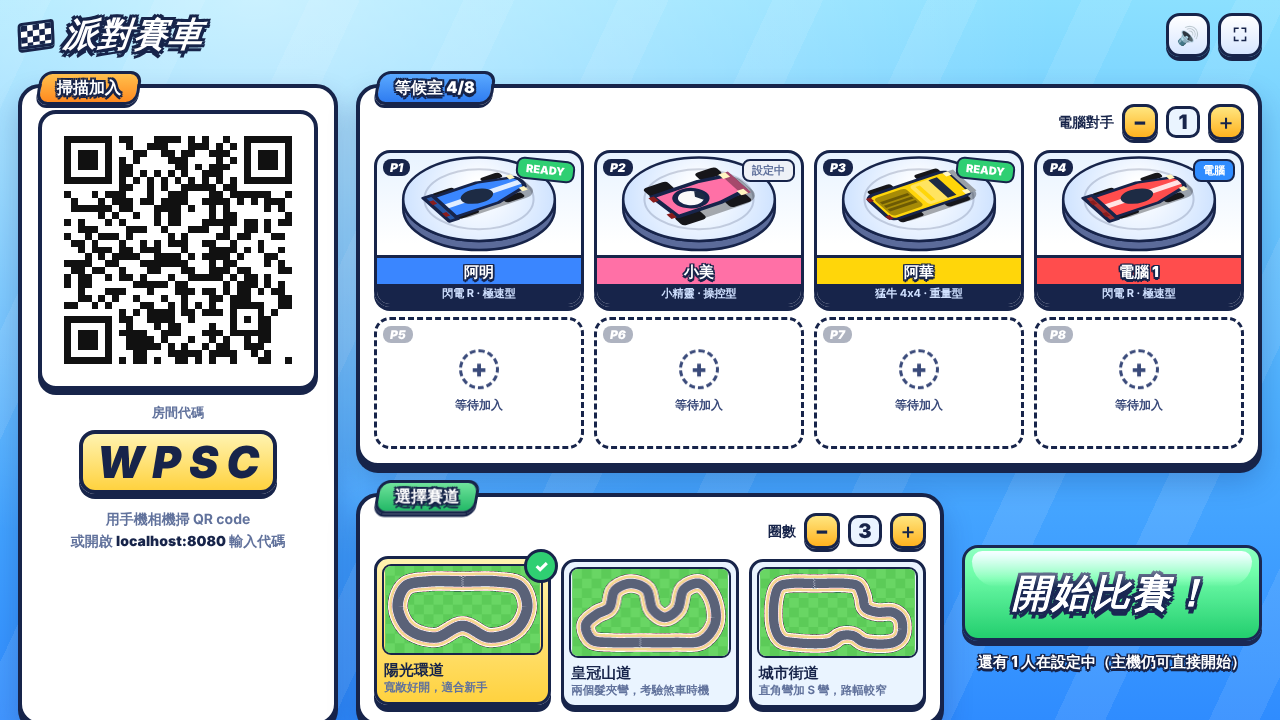
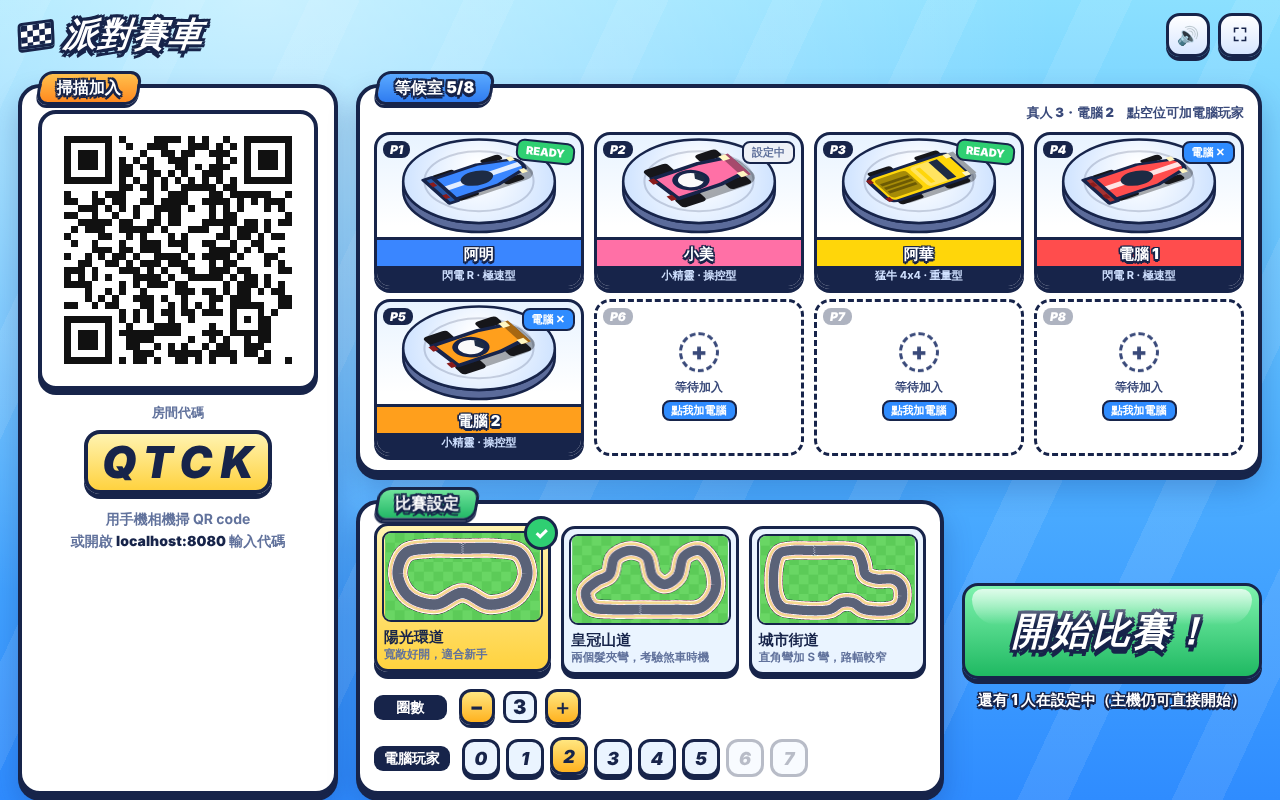
派對賽車：新增電腦玩家數量設定
- 等候室下方改為「比賽設定」面板：賽道、圈數、電腦玩家（0–7 一鍵選擇）
- 點等候室空位可加一台電腦，點「電腦 ✕」可移除
- 設定的是想要的數量：滿員時有人加入，電腦自動讓位；有人離開再補回
- 電腦玩家數、圈數、賽道記在主機裝置上，下次開房沿用
- 窄螢幕上標章不再蓋住 P1–P8 編號
- 端對端測試加上電腦玩家設定的檢查

Claude-Session: https://claude.ai/code/session_014m7PvBxDtCHW1QYCXCytsU

diff --git a/party-racer/js/host.js b/party-racer/js/host.js
@@ -13,14 +13,20 @@ const STEP = 1 / 60;
 const HEARTBEAT_TIMEOUT = 7000;   // 這麼久沒收到手機訊息就當斷線
 const LOBBY_KEEP = 60000;         // 大廳裡斷線的玩家保留多久（讓他重連回來）
 
+// 主機上次的設定（電腦玩家數、圈數、賽道）存在這台裝置上，下次開房直接沿用
+const saved = (() => {
+  try { return JSON.parse(localStorage.getItem('pr-host') || '{}'); } catch (e) { return {}; }
+})();
+
 const S = {
   code: null,
   phase: 'boot',                  // boot | lobby | race | results
   players: new Map(),             // 真人玩家 id → player
   bots: [],
-  botCount: 0,
-  trackId: TRACKS[0].id,
-  laps: 3,
+  botWanted: Number.isInteger(saved.bots) ? Math.max(0, Math.min(MAX_PLAYERS, saved.bots)) : 0,  // 主機想要幾台電腦
+  botCount: 0,                    // 實際幾台（真人太多時會自動讓位）
+  trackId: TRACKS.some((t) => t.id === saved.track) ? saved.track : TRACKS[0].id,
+  laps: Number.isInteger(saved.laps) ? Math.max(1, Math.min(9, saved.laps)) : 3,
   race: null,
   track: null,
   racers: [],
@@ -186,9 +192,21 @@ function sendTo(id, msg) {
 
 // ── 電腦對手 ─────────────────────────────────────────
 
+function saveSettings() {
+  try { localStorage.setItem('pr-host', JSON.stringify({ bots: S.botWanted, laps: S.laps, track: S.trackId })); } catch (e) { /* ignore */ }
+}
+
+// 設定想要的電腦玩家數（會被剩餘空位限制）
+function setBots(n) {
+  S.botWanted = Math.max(0, Math.min(MAX_PLAYERS - S.players.size, n));
+  saveSettings();
+  refreshLobby();
+}
+
 function rebuildBots() {
+  // 真人優先：空位不夠時電腦先讓位，有人離開再補回來
   const max = MAX_PLAYERS - S.players.size;
-  S.botCount = Math.max(0, Math.min(S.botCount, max));
+  S.botCount = Math.max(0, Math.min(S.botWanted, max));
   const used = new Set([...S.players.values()].map((p) => p.color));
   S.bots = [];
   for (let k = 0; k < S.botCount; k++) {
@@ -227,17 +245,33 @@ function setupLobby() {
     b.className = 'track-card';
     b.dataset.id = t.id;
     b.innerHTML = `<canvas></canvas><div class="track-name">${esc(t.name)}</div><div class="track-desc">${esc(t.desc)}</div>`;
-    b.onclick = () => { S.trackId = t.id; refreshLobby(); };
+    b.onclick = () => { S.trackId = t.id; saveSettings(); refreshLobby(); };
     list.appendChild(b);
   }
   requestAnimationFrame(() => {
     for (const b of list.children) drawTrackThumb(b.querySelector('canvas'), getTrack(b.dataset.id));
   });
 
-  $('lap-minus').onclick = () => { S.laps = Math.max(1, S.laps - 1); refreshLobby(); };
-  $('lap-plus').onclick = () => { S.laps = Math.min(9, S.laps + 1); refreshLobby(); };
-  $('bot-minus').onclick = () => { S.botCount = Math.max(0, S.botCount - 1); refreshLobby(); };
-  $('bot-plus').onclick = () => { S.botCount += 1; refreshLobby(); };
+  $('lap-minus').onclick = () => { S.laps = Math.max(1, S.laps - 1); saveSettings(); refreshLobby(); };
+  $('lap-plus').onclick = () => { S.laps = Math.min(9, S.laps + 1); saveSettings(); refreshLobby(); };
+
+  const chips = $('bot-chips');
+  chips.innerHTML = '';
+  for (let n = 0; n < MAX_PLAYERS; n++) {
+    const c = document.createElement('button');
+    c.className = 'chip';
+    c.dataset.bots = n;
+    c.textContent = n;
+    c.setAttribute('role', 'radio');
+    c.setAttribute('aria-label', `${n} 台電腦玩家`);
+    c.onclick = () => setBots(n);
+    chips.appendChild(c);
+  }
+  // 點空位＝加一台電腦；點電腦的 ✕＝少一台
+  $('player-list').addEventListener('click', (e) => {
+    if (e.target.closest('.slot.empty')) setBots(S.botCount + 1);
+    else if (e.target.closest('.slot-badge.bot')) setBots(S.botCount - 1);
+  });
   $('start-btn').onclick = startRace;
   $('again-btn').onclick = startRace;
   $('lobby-btn').onclick = backToLobby;
@@ -294,9 +328,15 @@ function refreshLobby() {
   if (S.phase === 'boot') return;
 
   $('p-count').textContent = `${all.length}/${MAX_PLAYERS}`;
-  $('bot-count').textContent = S.botCount;
   $('lap-count').textContent = S.laps;
-  $('bot-plus').disabled = all.length >= MAX_PLAYERS;
+  const free = MAX_PLAYERS - S.players.size;
+  for (const c of $('bot-chips').children) {
+    const n = +c.dataset.bots;
+    c.disabled = n > free;
+    c.classList.toggle('selected', n === S.botCount);
+    c.setAttribute('aria-checked', n === S.botCount ? 'true' : 'false');
+  }
+  $('slots-sum').textContent = `真人 ${S.players.size}・電腦 ${S.botCount}` + (all.length < MAX_PLAYERS ? '　點空位可加電腦玩家' : '');
 
   // 等候室：固定 8 個位置，有人的顯示車子，沒人的顯示「等待加入」
   const list = $('player-list');
@@ -307,7 +347,8 @@ function refreshLobby() {
     if (!p) {
       const el = document.createElement('div');
       el.className = 'slot empty';
-      el.innerHTML = `<div class="slot-no">P${i + 1}</div><div class="slot-plus">+</div><div class="slot-wait">等待加入</div>`;
+      el.title = '點一下加入電腦玩家';
+      el.innerHTML = `<div class="slot-no">P${i + 1}</div><div class="slot-plus">+</div><div class="slot-wait">等待加入</div><div class="slot-addbot">點我加電腦</div>`;
       nodes.push(el);
       continue;
     }
@@ -323,7 +364,7 @@ function refreshLobby() {
     el.querySelector('.slot-name').textContent = p.name;
     el.querySelector('.slot-car').textContent = `${car.name} · ${car.type}`;
     const st = el.querySelector('.slot-badge');
-    if (p.bot) { st.textContent = '電腦'; st.className = 'slot-badge bot'; }
+    if (p.bot) { st.textContent = '電腦 ✕'; st.className = 'slot-badge bot'; st.title = '移除這台電腦玩家'; }
     else if (!p.connected) { st.textContent = '斷線'; st.className = 'slot-badge off'; }
     else if (p.ready) { st.textContent = 'READY'; st.className = 'slot-badge ok'; }
     else { st.textContent = '設定中'; st.className = 'slot-badge wait'; }

diff --git a/party-racer/css/style.css b/party-racer/css/style.css
@@ -214,9 +214,30 @@ input { font: inherit; }
   font-size: 24px; font-weight: 900; animation: bob 1.6s ease-in-out infinite;
 }
 .slot-wait { font-size: 12px; font-weight: 900; }
+.slot.empty { cursor: pointer; transition: background .15s, transform .1s; }
+.slot.empty:hover { background: rgba(255, 255, 255, .7); }
+.slot.empty:active { transform: scale(.97); }
+.slot-addbot {
+  font-size: 11px; font-weight: 900; color: #fff; background: var(--blue); border: 2px solid var(--ink); border-radius: 8px; padding: 1px 8px;
+}
+.slot-badge.bot { cursor: pointer; }
+.slot-badge.bot:hover { background: var(--red); }
+.slots-sum { font-size: 13px; font-weight: 900; color: var(--ink-soft); }
+
+.setting-row { display: flex; align-items: center; gap: 10px 12px; flex-wrap: wrap; margin-top: 14px; }
+.setting-label {
+  font-weight: 900; font-size: 14px; color: #fff; background: var(--ink); padding: 3px 10px; border-radius: 9px; min-width: 5.2em; text-align: center;
+}
+.chips { display: flex; flex-wrap: wrap; gap: 6px; }
+.chip {
+  min-width: 38px; height: 38px; padding: 0 6px; border: 3px solid var(--ink); border-radius: 12px; font-size: 18px; font-weight: 900; font-style: italic;
+  background: var(--panel2); color: var(--ink); box-shadow: 0 3px 0 var(--ink); transition: transform .08s;
+}
+.chip:active:not(:disabled) { transform: translateY(2px); box-shadow: 0 1px 0 var(--ink); }
+.chip.selected { background: linear-gradient(#ffe680, #ffb21f); transform: translateY(-2px); box-shadow: 0 5px 0 var(--ink); }
+.chip:disabled { opacity: .3; box-shadow: none; cursor: default; }
 
 .track-panel { grid-area: track; }
-.track-head { display: flex; justify-content: flex-end; margin: -6px 0 10px; }
 .track-list { display: grid; grid-template-columns: repeat(3, 1fr); gap: 10px; }
 .track-card {
   position: relative; background: var(--panel2); border: 3px solid var(--ink); border-radius: 14px; padding: 5px; text-align: left;
@@ -251,6 +272,10 @@ input { font: inherit; }
   .slot-name { font-size: 12px; }
   .slot-car { display: none; }
   .slot-badge { font-size: 10px; padding: 1px 5px; }
+  .slot-addbot { font-size: 10px; padding: 0 5px; }
+  .slot.player-card .slot-no { display: none; }   /* 窄螢幕讓位給 READY／電腦 ✕ 標章 */
+  .slot-badge { left: 4px; right: 4px; text-align: center; }
+  .chip { min-width: 34px; height: 34px; font-size: 16px; }
   .track-list { gap: 6px; }
   .track-desc { display: none; }
   .logo { font-size: 26px; }

diff --git a/party-racer/host.html b/party-racer/host.html
@@ -36,22 +36,23 @@
 
     <div class="panel slots-panel">
       <div class="panel-title"><span>等候室 <b id="p-count">0/8</b></span></div>
-      <div class="slots-head">
-        <div class="stepper"><span>電腦對手</span>
-          <button id="bot-minus" aria-label="減少電腦對手">−</button><b id="bot-count">0</b><button id="bot-plus" aria-label="增加電腦對手">＋</button>
-        </div>
-      </div>
+      <div class="slots-head"><span id="slots-sum" class="slots-sum"></span></div>
       <div id="player-list" class="slots"></div>
     </div>
 
     <div class="panel track-panel">
-      <div class="panel-title green"><span>選擇賽道</span></div>
-      <div class="track-head">
-        <div class="stepper"><span>圈數</span>
+      <div class="panel-title green"><span>比賽設定</span></div>
+      <div id="track-list" class="track-list"></div>
+      <div class="setting-row">
+        <span class="setting-label">圈數</span>
+        <div class="stepper">
           <button id="lap-minus" aria-label="減少圈數">−</button><b id="lap-count">3</b><button id="lap-plus" aria-label="增加圈數">＋</button>
         </div>
       </div>
-      <div id="track-list" class="track-list"></div>
+      <div class="setting-row">
+        <span class="setting-label">電腦玩家</span>
+        <div id="bot-chips" class="chips" role="radiogroup" aria-label="電腦玩家數量"></div>
+      </div>
     </div>
 
     <div class="start-panel">

diff --git a/party-racer/README.md b/party-racer/README.md
@@ -25,7 +25,10 @@
 1. **主機**（平板、電腦，或橫放的手機；可以投影到電視）打開遊戲網址，按「建立房間」
 2. 畫面出現 **QR code** 和 4 個字的**房間代碼**
 3. 朋友用手機相機掃 QR code → 進入「車庫」：左右切換車款（也可以直接左右滑）、選烤漆顏色、輸入名字 → 按「準備好了！」
-4. 主機在「等候室」看到大家的車停在展示台上（8 個位置），選賽道、圈數（1–9 圈），人不夠可以加電腦對手，按「開始比賽！」
+4. 主機在「等候室」看到大家的車停在展示台上（8 個位置），在「比賽設定」選賽道、圈數（1–9 圈）和**電腦玩家數量**（0–7 台），按「開始比賽！」
+   - 也可以直接**點等候室的空位**加一台電腦，點電腦卡片上的「電腦 ✕」移除
+   - 位置滿了又有朋友加入時，電腦會自動讓位；朋友離開後再補回來
+   - 電腦玩家數量、圈數、賽道會記在主機裝置上，下次開房自動沿用
 5. 倒數 3、2、1、GO！手機變成搖桿：
 
 | 位置 | 按鈕 | 作用 |
